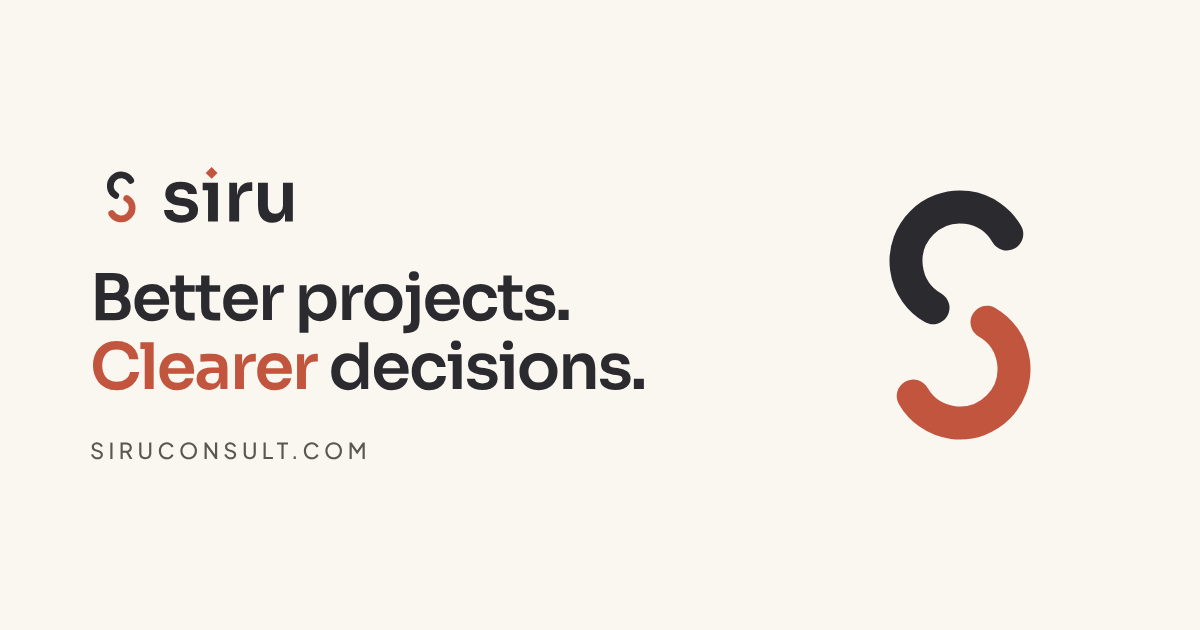
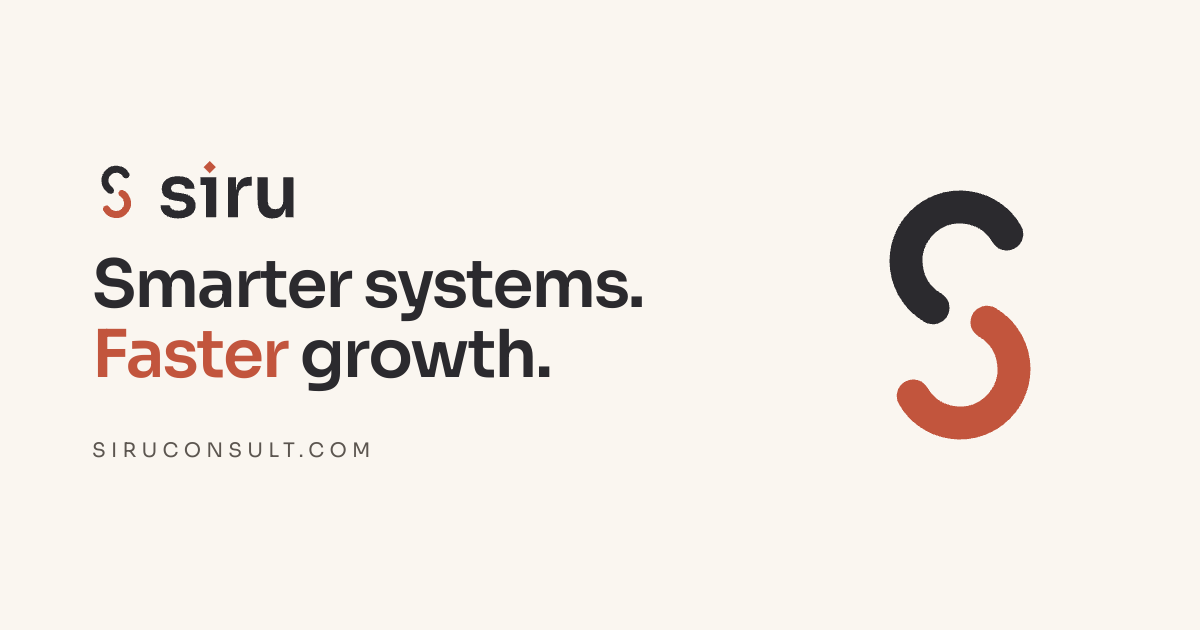
New hero headline (EN + ZH), AI-first subtitle and titles, new share image

Changed region(s): [[0.0617, 0.3921, 0.555, 0.6333], [0.0617, 0.2413, 0.2467, 0.3619], [0.0617, 0.6937, 0.3083, 0.7238]]

diff --git a/index.html b/index.html
@@ -5,18 +5,18 @@
 <meta name="viewport" content="width=device-width, initial-scale=1">
 <meta http-equiv="Content-Security-Policy" content="default-src 'self'; script-src 'self' https://hcaptcha.com https://*.hcaptcha.com; style-src 'self' https://hcaptcha.com https://*.hcaptcha.com; img-src 'self'; font-src 'self'; connect-src https://api.web3forms.com https://hcaptcha.com https://*.hcaptcha.com; frame-src https://hcaptcha.com https://*.hcaptcha.com; object-src 'none'; base-uri 'self'; form-action https://api.web3forms.com; upgrade-insecure-requests">
 <meta name="referrer" content="strict-origin-when-cross-origin">
-<title>Siru Consulting | Real Estate Project Sourcing, Marketing &amp; AI Advisory</title>
-<meta name="description" content="Siru Consulting is an Irvine, California advisory firm. We source and evaluate real estate development projects for funds and capital partners, and design sales, back-office and AI systems for professional-services firms.">
+<title>Siru Consulting | AI Systems, Marketing &amp; Project Advisory</title>
+<meta name="description" content="Siru Consulting is an Irvine, California advisory firm. We design and implement AI-enabled sales and back-office systems for professional-services firms, and source and evaluate real estate development projects for funds and capital partners.">
 <link rel="canonical" href="https://siruconsult.com/">
 <link rel="alternate" hreflang="en" href="https://siruconsult.com/">
 <link rel="alternate" hreflang="zh-Hans" href="https://siruconsult.com/zh/">
 <link rel="alternate" hreflang="x-default" href="https://siruconsult.com/">
 <meta property="og:type" content="website">
 <meta property="og:site_name" content="Siru Consulting">
-<meta property="og:title" content="Siru Consulting | Real Estate Project Sourcing, Marketing &amp; AI Advisory">
-<meta property="og:description" content="Siru Consulting is an Irvine, California advisory firm. We source and evaluate real estate development projects for funds and capital partners, and design sales, back-office and AI systems for professional-services firms.">
+<meta property="og:title" content="Siru Consulting | AI Systems, Marketing &amp; Project Advisory">
+<meta property="og:description" content="Siru Consulting is an Irvine, California advisory firm. We design and implement AI-enabled sales and back-office systems for professional-services firms, and source and evaluate real estate development projects for funds and capital partners.">
 <meta property="og:url" content="https://siruconsult.com/">
-<meta property="og:image" content="https://siruconsult.com/assets/img/og-image.png">
+<meta property="og:image" content="https://siruconsult.com/assets/img/og-image.png?v=2">
 <meta property="og:locale" content="en_US">
 <meta property="og:locale:alternate" content="zh_CN">
 <meta name="twitter:card" content="summary_large_image">
@@ -60,8 +60,8 @@
     <div class="wrap hv-inner">
       <div class="hero-copy">
         <div class="eyebrow anim a0">Advisory · Irvine, California</div>
-        <h1><span class="line anim a1">Better projects.</span><span class="line anim a2"><em>Clearer</em> decisions.</span></h1>
-        <p class="lead anim a3">Siru Consulting sources and evaluates real estate development projects for funds and capital partners. We also design and implement the sales, back-office and AI systems that professional-services firms rely on as they grow.</p>
+        <h1><span class="line anim a1">Smarter systems.</span><span class="line anim a2"><em>Faster</em> growth.</span></h1>
+        <p class="lead anim a3">Siru Consulting designs and implements AI-enabled sales and back-office systems that help professional-services firms grow. We also source and evaluate real estate development projects for funds and capital partners.</p>
         <div class="actions anim a4">
           <a class="btn btn-dark" href="mailto:info@siruconsult.com">Start a conversation <span class="arrow" aria-hidden="true">→</span></a>
           <a class="btn btn-ghost" href="#services">Our services</a>
@@ -117,7 +117,7 @@
   <section class="wrap section about" id="about">
     <div class="titles"><div class="eyebrow">About Siru</div><h2 class="reveal">Boutique advisory,<br>tailored to each client.</h2></div>
     <div class="body reveal d1">
-      <p>Siru Consulting is an independent advisory firm based in Irvine, California, working in English and Chinese. We advise real estate developers, capital partners and professional-services firms.</p>
+      <p>Siru Consulting is an independent advisory firm based in Irvine, California, working in English and Chinese. We advise professional-services firms, real estate developers and capital partners.</p>
       <p>Each engagement is scoped to the client’s needs and handled directly and in confidence. We provide research, analysis and recommendations; investment and business decisions remain with our clients.</p>
       <dl class="facts"><div><dt>Based in</dt><dd>Irvine, California</dd></div><div><dt>Languages</dt><dd>English · 中文</dd></div><div><dt>Clients</dt><dd>Business-to-business only</dd></div></dl>
     </div>

diff --git a/zh/index.html b/zh/index.html
@@ -5,18 +5,18 @@
 <meta name="viewport" content="width=device-width, initial-scale=1">
 <meta http-equiv="Content-Security-Policy" content="default-src 'self'; script-src 'self' https://hcaptcha.com https://*.hcaptcha.com; style-src 'self' https://hcaptcha.com https://*.hcaptcha.com; img-src 'self'; font-src 'self'; connect-src https://api.web3forms.com https://hcaptcha.com https://*.hcaptcha.com; frame-src https://hcaptcha.com https://*.hcaptcha.com; object-src 'none'; base-uri 'self'; form-action https://api.web3forms.com; upgrade-insecure-requests">
 <meta name="referrer" content="strict-origin-when-cross-origin">
-<title>Siru Consulting | 房地产项目寻源、营销策略与 AI 咨询</title>
-<meta name="description" content="Siru Consulting 是位于加州尔湾的咨询公司，为基金和资本方寻找并评估房地产开发项目，并为专业服务机构设计销售、后台和 AI 系统。">
+<title>Siru Consulting | AI 系统、营销策略与项目咨询</title>
+<meta name="description" content="Siru Consulting 是位于加州尔湾的咨询公司，为专业服务机构设计和搭建 AI 驱动的销售与后台系统，并为基金和资本方寻找、评估房地产开发项目。">
 <link rel="canonical" href="https://siruconsult.com/zh/">
 <link rel="alternate" hreflang="en" href="https://siruconsult.com/">
 <link rel="alternate" hreflang="zh-Hans" href="https://siruconsult.com/zh/">
 <link rel="alternate" hreflang="x-default" href="https://siruconsult.com/">
 <meta property="og:type" content="website">
 <meta property="og:site_name" content="Siru Consulting">
-<meta property="og:title" content="Siru Consulting | 房地产项目寻源、营销策略与 AI 咨询">
-<meta property="og:description" content="Siru Consulting 是位于加州尔湾的咨询公司，为基金和资本方寻找并评估房地产开发项目，并为专业服务机构设计销售、后台和 AI 系统。">
+<meta property="og:title" content="Siru Consulting | AI 系统、营销策略与项目咨询">
+<meta property="og:description" content="Siru Consulting 是位于加州尔湾的咨询公司，为专业服务机构设计和搭建 AI 驱动的销售与后台系统，并为基金和资本方寻找、评估房地产开发项目。">
 <meta property="og:url" content="https://siruconsult.com/zh/">
-<meta property="og:image" content="https://siruconsult.com/assets/img/og-image.png">
+<meta property="og:image" content="https://siruconsult.com/assets/img/og-image.png?v=2">
 <meta property="og:locale" content="zh_CN">
 <meta property="og:locale:alternate" content="en_US">
 <meta name="twitter:card" content="summary_large_image">
@@ -60,8 +60,8 @@
     <div class="wrap hv-inner">
       <div class="hero-copy">
         <div class="eyebrow anim a0">商业咨询 · 加州尔湾</div>
-        <h1><span class="line anim a1">找对项目，</span><span class="line anim a2"><em>看清</em>再决定。</span></h1>
-        <p class="lead anim a3">Siru Consulting 为基金和资本方寻找并评估房地产开发项目，同时为成长中的专业服务机构设计和搭建销售、后台及 AI 系统。</p>
+        <h1><span class="line anim a1">科技为器，</span><span class="line anim a2"><em>助力</em>企业快速成长。</span></h1>
+        <p class="lead anim a3">Siru Consulting 为专业服务机构设计和搭建 AI 驱动的销售与后台系统，同时为基金和资本方寻找、评估房地产开发项目。</p>
         <div class="actions anim a4">
           <a class="btn btn-dark" href="mailto:info@siruconsult.com">和我们聊聊 <span class="arrow" aria-hidden="true">→</span></a>
           <a class="btn btn-ghost" href="#services">了解服务</a>
@@ -117,7 +117,7 @@
   <section class="wrap section about" id="about">
     <div class="titles"><div class="eyebrow">关于 Siru</div><h2 class="reveal">小而精，<br>提供专属定制服务。</h2></div>
     <div class="body reveal d1">
-      <p>Siru Consulting 是位于加州尔湾的独立咨询公司，以中英文开展工作，服务房地产开发商、资本方和专业服务机构。</p>
+      <p>Siru Consulting 是位于加州尔湾的独立咨询公司，以中英文开展工作，服务专业服务机构、房地产开发商和资本方。</p>
       <p>每个项目根据客户需求单独制定方案，由我们直接负责，并严格保密。我们提供调研、分析和建议，投资与经营决策由客户自行做出。</p>
       <dl class="facts"><div><dt>所在地区</dt><dd>加州尔湾</dd></div><div><dt>工作语言</dt><dd>English · 中文</dd></div><div><dt>服务对象</dt><dd>仅限企业客户</dd></div></dl>
     </div>

diff --git a/ai-systems/index.html b/ai-systems/index.html
@@ -16,7 +16,7 @@
 <meta property="og:title" content="AI &amp; Business Systems | Siru Consulting">
 <meta property="og:description" content="Back-office and sales systems for professional-services firms, from first inquiry to monthly reporting. AI handles repetitive reading and drafting, and every client-facing output is reviewed by a person.">
 <meta property="og:url" content="https://siruconsult.com/ai-systems/">
-<meta property="og:image" content="https://siruconsult.com/assets/img/og-image.png">
+<meta property="og:image" content="https://siruconsult.com/assets/img/og-image.png?v=2">
 <meta property="og:locale" content="en_US">
 <meta property="og:locale:alternate" content="zh_CN">
 <meta name="twitter:card" content="summary_large_image">

diff --git a/zh/ai-systems/index.html b/zh/ai-systems/index.html
@@ -16,7 +16,7 @@
 <meta property="og:title" content="AI 与业务系统 | Siru Consulting">
 <meta property="og:description" content="Siru Consulting 为专业服务机构设计后台和销售系统，从客户咨询到月度报表统一在一套系统中；重复性工作由 AI 完成，对外内容均经人工审核。">
 <meta property="og:url" content="https://siruconsult.com/zh/ai-systems/">
-<meta property="og:image" content="https://siruconsult.com/assets/img/og-image.png">
+<meta property="og:image" content="https://siruconsult.com/assets/img/og-image.png?v=2">
 <meta property="og:locale" content="zh_CN">
 <meta property="og:locale:alternate" content="en_US">
 <meta name="twitter:card" content="summary_large_image">

diff --git a/zh/work/index.html b/zh/work/index.html
@@ -16,7 +16,7 @@
 <meta property="og:title" content="案例 | Siru Consulting">
 <meta property="og:description" content="Siru Consulting 在 AI 与销售系统、中英双语营销和房地产项目寻源方面的项目案例。为了保密，不公开客户名称。">
 <meta property="og:url" content="https://siruconsult.com/zh/work/">
-<meta property="og:image" content="https://siruconsult.com/assets/img/og-image.png">
+<meta property="og:image" content="https://siruconsult.com/assets/img/og-image.png?v=2">
 <meta property="og:locale" content="zh_CN">
 <meta property="og:locale:alternate" content="en_US">
 <meta name="twitter:card" content="summary_large_image">

diff --git a/work/index.html b/work/index.html
@@ -16,7 +16,7 @@
 <meta property="og:title" content="Case Studies | Siru Consulting">
 <meta property="og:description" content="Selected work in AI and sales systems, bilingual marketing and real estate project sourcing. Clients are not named.">
 <meta property="og:url" content="https://siruconsult.com/work/">
-<meta property="og:image" content="https://siruconsult.com/assets/img/og-image.png">
+<meta property="og:image" content="https://siruconsult.com/assets/img/og-image.png?v=2">
 <meta property="og:locale" content="en_US">
 <meta property="og:locale:alternate" content="zh_CN">
 <meta name="twitter:card" content="summary_large_image">

diff --git a/404.html b/404.html
@@ -13,7 +13,7 @@
 <meta property="og:title" content="Page not found | Siru Consulting">
 <meta property="og:description" content="Page not found.">
 <meta property="og:url" content="https://siruconsult.com/404.html">
-<meta property="og:image" content="https://siruconsult.com/assets/img/og-image.png">
+<meta property="og:image" content="https://siruconsult.com/assets/img/og-image.png?v=2">
 <meta property="og:locale" content="en_US">
 <meta property="og:locale:alternate" content="zh_CN">
 <meta name="twitter:card" content="summary_large_image">
